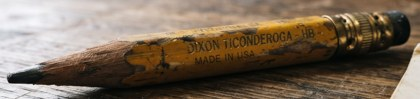
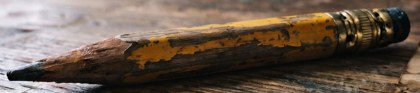
Finished sheets pile beside the desk and get sucked into the hatch for judging at time-up; new pencil images
Claude-Session: https://claude.ai/code/session_01X1X5FAAePRV4vegRdRuMXJ

diff --git a/src/main.js b/src/main.js
@@ -8,11 +8,11 @@
   // 단계: 첫 단계 30초 4장 (이후 수치는 시험하며 조정)
   const STAGES = [{ time: 30, quota: 4 }, { time: 30, quota: 5 }, { time: 30, quota: 6 }];
   const PASS = 90;
-  const ICONS = ['assets/pencil_0.jpg']; // 연필 아이콘 (나머지 5종은 이미지 오면 추가)
+  const ICONS = ['assets/pencil_0.jpg', 'assets/pencil_1.jpg']; // 연필 아이콘 (나머지 5종은 이미지 오면 추가)
   const SWAP_MS = 1500; // 연필을 바꿔 쥐는 데 드는 시간 (시간은 계속 흐름)
 
   const S = { mode: 'title', stage: 0, lives: 3, money: 0, hand: 0, spares: [0, 0, 0, 0, 0, 0],
-    timeLeft: 0, passed: 0, earned: 0, running: false, busy: false, tutStep: 0, tutTries: 0 };
+    timeLeft: 0, stack: [], passed: 0, earned: 0, running: false, busy: false, tutStep: 0, tutTries: 0 };
   let sheet = null, cur = null, timerId = null;
 
   // ---------- 종이 그리기 ----------
@@ -86,10 +86,13 @@
   // 창구에서 날아오는 종이: 배경 이미지(cover) 안 창구 위치를 화면 좌표로 바꿔 출발점으로
   const BG = { w: 2000, h: 1091 }, HATCH = { x: 1005, y: 330 };
   let flying = false;
+  function hatchPoint() {
+    const vw = innerWidth, vh = innerHeight, k = Math.max(vw / BG.w, vh / BG.h);
+    return [(vw - BG.w * k) / 2 + HATCH.x * k, (vh - BG.h * k) / 2 + HATCH.y * k];
+  }
   function fly(kind, then) {
-    const w = $('paperWrap'), vw = innerWidth, vh = innerHeight;
-    const k = Math.max(vw / BG.w, vh / BG.h), hx = (vw - BG.w * k) / 2 + HATCH.x * k, hy = (vh - BG.h * k) / 2 + HATCH.y * k;
-    w.classList.remove('arrive', 'leave'); w.style.transform = '';
+    const w = $('paperWrap'), [hx, hy] = hatchPoint();
+    w.style.visibility = ''; w.classList.remove('arrive', 'leave'); w.style.transform = '';
     const r = w.getBoundingClientRect();
     w.style.setProperty('--fx', `${hx - (r.left + r.width / 2)}px`);
     w.style.setProperty('--fy', `${hy - (r.top + r.height / 2)}px`);
@@ -162,20 +165,40 @@
     renderShop(); hud();
   });
 
-  // ---------- 상납 ----------
+  // ---------- 상납: 다 쓴 종이는 책상 옆에 쌓였다가, 시간이 끝나면 한 장씩 창구로 빨려 들어가 판정 ----------
   function submit() {
     if (!sheet || !sheet.strokes.length || S.busy || flying) return;
-    const s = PC.score(sheet.tpl, sheet.strokes), ok = s >= PASS;
-    pop(s, ok);
     if (S.mode === 'tutorial') {
-      S.tutTries++;
+      const s = PC.score(sheet.tpl, sheet.strokes), ok = s >= PASS;
+      pop(s, ok); S.tutTries++;
       if (ok) { toast(t('great', { s })); S.tutStep++; showTut(); }
       else { toast(t('tryAgain', { s })); newSheet(TUTORIAL[PC.getLang()]); if (S.tutTries >= 3) $('tutSkip').classList.remove('hidden'); }
       return;
     }
     if (!S.running) return;
-    if (ok) { S.passed++; S.money++; S.earned++; }
-    hud(); fly('leave', () => { if (S.running) newSheet(); });
+    toStack(); hud(); newSheet();
+  }
+  function toStack() {
+    const r = $('paperWrap').getBoundingClientRect(), i = S.stack.length;
+    S.stack.push({ tpl: sheet.tpl, strokes: sheet.strokes });
+    const img = new Image(); img.src = cv.toDataURL('image/jpeg', 0.7); img.className = 'sheet-mini';
+    img.style.width = r.width + 'px'; img.style.height = r.height + 'px';
+    img.style.transform = `translate(${r.left}px,${r.top}px)`;
+    $('stack').appendChild(img);
+    const k = 0.3, w = r.width * k;
+    const x = Math.min(r.right + 24, innerWidth - w - 12) + Math.random() * 8 - 4, y = r.bottom - w - i * 4;
+    const rot = Math.random() * 10 - 5;
+    requestAnimationFrame(() => requestAnimationFrame(() => { img.style.transform = `translate(${x}px,${y}px) scale(${k}) rotate(${rot}deg)`; }));
+    sheet = null;
+  }
+  function vacuum(done) {
+    const imgs = [...$('stack').children].reverse(), [hx, hy] = hatchPoint(), GAP = 220;
+    imgs.forEach((img, i) => setTimeout(() => {
+      img.classList.add('suck'); sfxNoise(0.35, 500, 2600, 0.5);
+      img.style.transform = `translate(${hx}px,${hy}px) scale(0.03) rotate(${Math.random() * 720 - 360}deg)`;
+      img.style.opacity = '0';
+    }, 400 + i * GAP));
+    setTimeout(done, 400 + imgs.length * GAP + 700);
   }
   function pop(s, ok) {
     const p = $('scorePop'); p.textContent = s; p.style.color = ok ? 'var(--ok)' : 'var(--accent)';
@@ -189,7 +212,7 @@
     startStage();
   }
   function startStage() {
-    S.mode = 'stage'; S.passed = 0; S.earned = 0; S.timeLeft = stageDef().time; S.running = true; S.busy = false;
+    S.mode = 'stage'; S.passed = 0; S.earned = 0; S.stack = []; $('stack').innerHTML = ''; $('controls').style.visibility = ''; S.timeLeft = stageDef().time; S.running = true; S.busy = false;
     show('game'); newSheet(); hud();
     const t0 = performance.now(), total = S.timeLeft;
     clearInterval(timerId);
@@ -202,6 +225,15 @@
   function endStage() {
     clearInterval(timerId); S.running = false; cur = null;
     $('shop').classList.add('hidden');
+    // 시간이 끝났을 때 쓰던 종이도 글씨가 있으면 함께 냄
+    if (sheet && sheet.strokes.length && !flying) toStack();
+    sheet = null; $('paperWrap').style.visibility = 'hidden'; $('controls').style.visibility = 'hidden';
+    vacuum(judge);
+  }
+  function judge() {
+    const scores = S.stack.map(x => PC.score(x.tpl, x.strokes));
+    S.passed = scores.filter(v => v >= PASS).length; S.earned = S.passed; S.money += S.passed;
+    $('resultScores').innerHTML = scores.map(v => `<span class="chip ${v >= PASS ? 'ok' : ''}">${v}</span>`).join('');
     const q = stageDef().quota, clear = S.passed >= q;
     if (!clear) S.lives--;
     hud();
@@ -213,6 +245,7 @@
   }
   function gameOver(txt = '') {
     clearInterval(timerId); S.running = false;
+    if (!txt) $('resultScores').innerHTML = '';
     result(t('gameOver'), txt, t('restart'), toTitle);
   }
   function result(title, text, btn, fn) {
@@ -252,6 +285,7 @@
     if (g) fit();
   }
   function toTitle() {
+    $('stack').innerHTML = '';
     clearInterval(timerId); S.mode = 'title'; S.running = false; sheet = null;
     $('tutBox').classList.add('hidden'); show('title');
   }
@@ -259,7 +293,7 @@
     if (S.mode !== 'stage') return;
     $('hudStage').textContent = S.stage + 1;
     $('hudTime').textContent = S.timeLeft.toFixed(1);
-    $('hudQuota').textContent = `${S.passed}/${stageDef().quota}`;
+    $('hudQuota').textContent = `${S.stack.length} / ${stageDef().quota}`;
     $('hudLives').textContent = '♥'.repeat(Math.max(0, S.lives)) + '♡'.repeat(Math.max(0, 3 - S.lives));
     $('hudMoney').textContent = S.money;
     const spare = S.spares.reduce((a, b) => a + b, 0);
@@ -268,17 +302,20 @@
   let toastId;
   function toast(m) { const e = $('toast'); e.textContent = m; e.classList.add('show'); clearTimeout(toastId); toastId = setTimeout(() => e.classList.remove('show'), 2600); }
 
-  // 부러지는 소리 (Web Audio 합성)
+  // 소리 (Web Audio 합성): 잡음을 거른 짧은 소리. 부러짐 = 높은 딱 / 빨려 듦 = 올라가는 휙
   let ac;
-  function sfxSnap() {
+  function sfxNoise(dur, f0, f1, gain, type = 'bandpass') {
     try {
       ac = ac || new AudioContext();
-      const n = ac.sampleRate * 0.12, buf = ac.createBuffer(1, n, ac.sampleRate), d = buf.getChannelData(0);
-      for (let i = 0; i < n; i++) d[i] = (Math.random() * 2 - 1) * Math.pow(1 - i / n, 4);
-      const src = ac.createBufferSource(), f = ac.createBiquadFilter();
-      f.type = 'highpass'; f.frequency.value = 1800; src.buffer = buf; src.connect(f).connect(ac.destination); src.start();
+      const n = Math.round(ac.sampleRate * dur), buf = ac.createBuffer(1, n, ac.sampleRate), d = buf.getChannelData(0);
+      for (let i = 0; i < n; i++) d[i] = (Math.random() * 2 - 1) * Math.sin(Math.PI * Math.min(1, i / n * (type === 'highpass' ? 8 : 1)));
+      const src = ac.createBufferSource(), f = ac.createBiquadFilter(), g = ac.createGain();
+      f.type = type; f.frequency.setValueAtTime(f0, ac.currentTime); f.frequency.exponentialRampToValueAtTime(f1, ac.currentTime + dur);
+      g.gain.setValueAtTime(gain, ac.currentTime); g.gain.exponentialRampToValueAtTime(0.001, ac.currentTime + dur);
+      src.buffer = buf; src.connect(f).connect(g).connect(ac.destination); src.start();
     } catch (e) {}
   }
+  const sfxSnap = () => sfxNoise(0.12, 1800, 2200, 1, 'highpass');
 
   // ---------- 버튼 ----------
   $('btnSubmit').onclick = submit;

diff --git a/src/i18n.js b/src/i18n.js
@@ -4,7 +4,7 @@
     en: {
       title: 'Prison of Calligraphy', subtitle: 'Write beautifully. Or else.',
       start: 'Start', tutorial: 'Tutorial', settings: 'Settings', language: 'Language', close: 'Close',
-      stage: 'Stage', time: 'Time', quota: 'Accepted', lives: 'Lives', money: 'Nyang', pencil: 'Pencil', spares: 'spare',
+      stage: 'Stage', time: 'Time', quota: 'Submitted / Quota', lives: 'Lives', money: 'Nyang', pencil: 'Pencil', spares: 'spare',
       shop: 'Shop', submit: 'Submit', newSheet: 'New sheet', noPencil: 'No pencil!',
       accepted: 'Accepted', rejected: 'Rejected',
       pencilBroke: 'Snap! Your pencil broke.', swapped: 'You picked up a spare pencil.',
@@ -22,7 +22,7 @@
         'Through the window ahead, a sheet of paper is slid onto your desk. Trace the letter on it.',
         'Follow the stroke order: start at ①, then ②, and follow each arrow\'s direction. Try it now — trace this letter and press Submit.',
         'Each sheet is scored 0–100 by how well you cover the line, how little you stray, and the stroke order. Only sheets scoring 90 or more are accepted.',
-        'Each stage has a time limit (e.g. 30 seconds) and a quota of accepted sheets. Miss the quota and you lose one of your 3 lives.',
+        'Each stage has a time limit (e.g. 30 seconds). Finished sheets pile up beside you; when time runs out, they are all taken through the window and judged. Too few accepted sheets and you lose one of your 3 lives.',
         'Every accepted sheet earns 1 nyang. Cheap pencils break at random — a shoddy pencil breaks 40% of the time. Buy better pencils and spares at the Shop.',
         'If your pencil breaks with no spare and no money, you lose a life. Now — write.',
       ],
@@ -31,7 +31,7 @@
     ko: {
       title: '교필의 감옥', subtitle: '獄: 敎筆',
       start: '시작', tutorial: '튜토리얼', settings: '설정', language: '언어', close: '닫기',
-      stage: '단계', time: '시간', quota: '인정', lives: '목숨', money: '냥', pencil: '연필', spares: '여분',
+      stage: '단계', time: '시간', quota: '제출 / 할당', lives: '목숨', money: '냥', pencil: '연필', spares: '여분',
       shop: '상점', submit: '상납', newSheet: '새 종이', noPencil: '연필이 없다!',
       accepted: '인정', rejected: '퇴짜',
       pencilBroke: '뚝! 연필이 부러졌다.', swapped: '여분의 연필을 집어 들었다.',
@@ -49,7 +49,7 @@
         '앞의 창구로 종이 한 장이 책상 위에 올라온다. 그 위의 글씨를 따라 써야 한다.',
         '획 순서를 지킨다: ①부터 시작해 ②로, 화살표 방향대로. 지금 직접 따라 쓰고 「상납」을 눌러 보자.',
         '종이마다 선을 얼마나 덮었는지, 얼마나 벗어나지 않았는지, 획 순서를 보고 0~100점을 매긴다. 90점 이상만 인정된다.',
-        '단계마다 제한시간(예: 30초)과 인정받아야 할 장수가 있다. 채우지 못하면 목숨 3개 중 하나를 잃는다.',
+        '단계마다 제한시간(예: 30초)이 있다. 다 쓴 종이는 책상 옆에 쌓이고, 시간이 끝나면 한꺼번에 창구로 빨려 들어가 판정을 받는다. 인정받은 장수가 모자라면 목숨 3개 중 하나를 잃는다.',
         '인정된 종이 한 장에 1냥. 싼 연필은 아무 때나 부러진다 — 볼품없는 연필은 40%. 상점에서 좋은 연필과 여분을 사 두자.',
         '연필이 부러졌는데 여분도 돈도 없으면 목숨을 잃는다. 자, 써라.',
       ],

diff --git a/style.css b/style.css
@@ -55,3 +55,11 @@ select { font: inherit; background: #3a2f22; color: var(--ink); border: 1px soli
 #shopTable td, #shopTable th { padding: .35em .8em; border-bottom: 1px solid #3d342a; }
 #shopTable th { color: var(--dim); font-weight: normal; }
 #shopTable button { padding: .25em .8em; margin: 0 .15em; }
+
+/* 다 쓴 종이 더미 → 시간이 끝나면 창구로 빨려 들어감 */
+#stack { position: absolute; inset: 0; z-index: 2; pointer-events: none; }
+.sheet-mini { position: absolute; left: 0; top: 0; transform-origin: 0 0; box-shadow: 0 2px 6px #000a; transition: transform .45s cubic-bezier(.3, .7, .3, 1), opacity .45s; }
+.sheet-mini.suck { transition: transform .55s cubic-bezier(.6, 0, .9, .4), opacity .55s ease-in; }
+#resultScores { margin: 0 0 1em; display: flex; flex-wrap: wrap; gap: .4em; justify-content: center; max-width: 600px; }
+.chip { padding: .2em .6em; border: 1px solid var(--accent); color: var(--accent); border-radius: 3px; }
+.chip.ok { border-color: var(--ok); color: #7cc48c; }

diff --git a/index.html b/index.html
@@ -31,6 +31,8 @@
     </div>
   </main>
 
+  <!-- 다 쓴 종이 더미 (책상 옆) -->
+  <div id="stack"></div>
   <div id="toast"></div>
 
   <div id="tutBox" class="hidden">
@@ -64,6 +66,7 @@
   <section id="result" class="overlay hidden">
     <h2 id="resultTitle"></h2>
     <p id="resultText"></p>
+    <div id="resultScores"></div>
     <button id="btnResult"></button>
   </section>
 </div>

diff --git a/CLAUDE.md b/CLAUDE.md
@@ -14,6 +14,9 @@
 - 조작: 마우스로 글씨를 따라 씀
 - 판정 (사용자 확정): 단계마다 제한시간(예: 30초) 동안 횟수 제한 없이 종이를 써서 냄
   - 종이마다 완성도를 채점(0~100). 90점 이상인 종이만 상납으로 인정
+  - 다 쓴 종이는 시간이 가는 동안 책상 옆에 쌓임(점수는 아직 안 보임) → 시간이 끝나면 한 장씩 청소기로 빨리듯 창구로 빨려 들어가 판정 (사용자 확정)
+    → 결과 화면에 장마다 점수 표시, 돈도 이때 받음. 시간이 끝날 때 쓰던 종이도 글씨가 있으면 함께 냄 `[임시]`
+  - 튜토리얼만 바로 점수를 보여 줌
   - 시간이 끝났을 때 90점 이상 종이가 할당량(장 수)에 못 미치면 목숨 1 차감
   - 첫 단계: 30초에 4장 (이후 단계 수치는 시험하며 조정)
   - 채점 (사용자 확정): 원본 선을 덮은 정도 + 선 밖으로 벗어난 정도 + 획 순서·방향을 섞어 0~100
@@ -29,9 +32,9 @@
 ## 이미지
 - 지금은 코드로 그린 임시 그림. 사용자가 원하는 분위기의 이미지를 나중에 줌 → 코딩 후 이미지를 덧씌울 자리를 알려 줄 것
 - 배경 `assets/bg_cell.jpg` (사용자 제공 2000×1091): 감옥 벽·창구·책상·묶인 손이 한 장면. 창구 입구 중심 = 이미지 (1005, 330) → `main.js` HATCH
-- 종이: 코드로 그린 질감 유지 (사용자 확정). 창구에서 날아와 눈앞에 펼쳐짐(arrive 0.6초), 상납하면 창구로 돌아감(leave 0.3초) — 날아가는 동안 쓰기 불가, 시간은 흐름
-- 연필 아이콘: 볼품없는 연필 `assets/pencil_0.jpg` (사용자 사진에서 잘라 냄, `main.js` ICONS). 나머지 5종은 이미지 오면 추가
-  - 주의: 사진에 실제 상표(DIXON TICONDEROGA) 글자가 보임 → Steam 출시 전 상표 없는 이미지로 바꿀 것
+- 종이: 코드로 그린 질감 유지 (사용자 확정). 창구에서 날아와 눈앞에 펼쳐짐(arrive 0.6초), 상납하면 책상 옆 더미로 감 — 날아오는 동안 쓰기 불가, 시간은 흐름
+- 연필 아이콘 (사용자 사진에서 잘라 냄, `main.js` ICONS): 볼품없는 연필 `pencil_0.jpg` · 연필 `pencil_1.jpg` (상표 없는 판). 나머지 4종은 이미지 오면 추가
+  - 상표 글자가 보이는 이미지는 쓰지 않음 (Steam 출시)
 - 타이틀 화면 이미지: 사용자 구상 중
 
 ## 필기구 (상점)
@@ -51,7 +54,7 @@
 - 연필이 망가지면: 여분이 있으면 여분으로 교체 → 없으면 상점 창에서 새로 구매 →
   가장 싼 연필(10냥)도 살 돈이 없으면 목숨 1 차감 + 볼품없는 연필 무료 지급
 - 교체·구매하는 동안에도 시간은 흐름 (사용자 확정). 여분으로 바꿔 쥐는 데 1.5초
-- `[임시]` 부러진 뒤 새 연필로 쓰던 종이를 이어서 씀 (종이는 버리지 않음)
+- 부러진 뒤 새 연필로 쓰던 종이를 이어서 씀 (사용자 확정)
 
 ## 플랫폼
 - 최종 목표: Steam 출시
